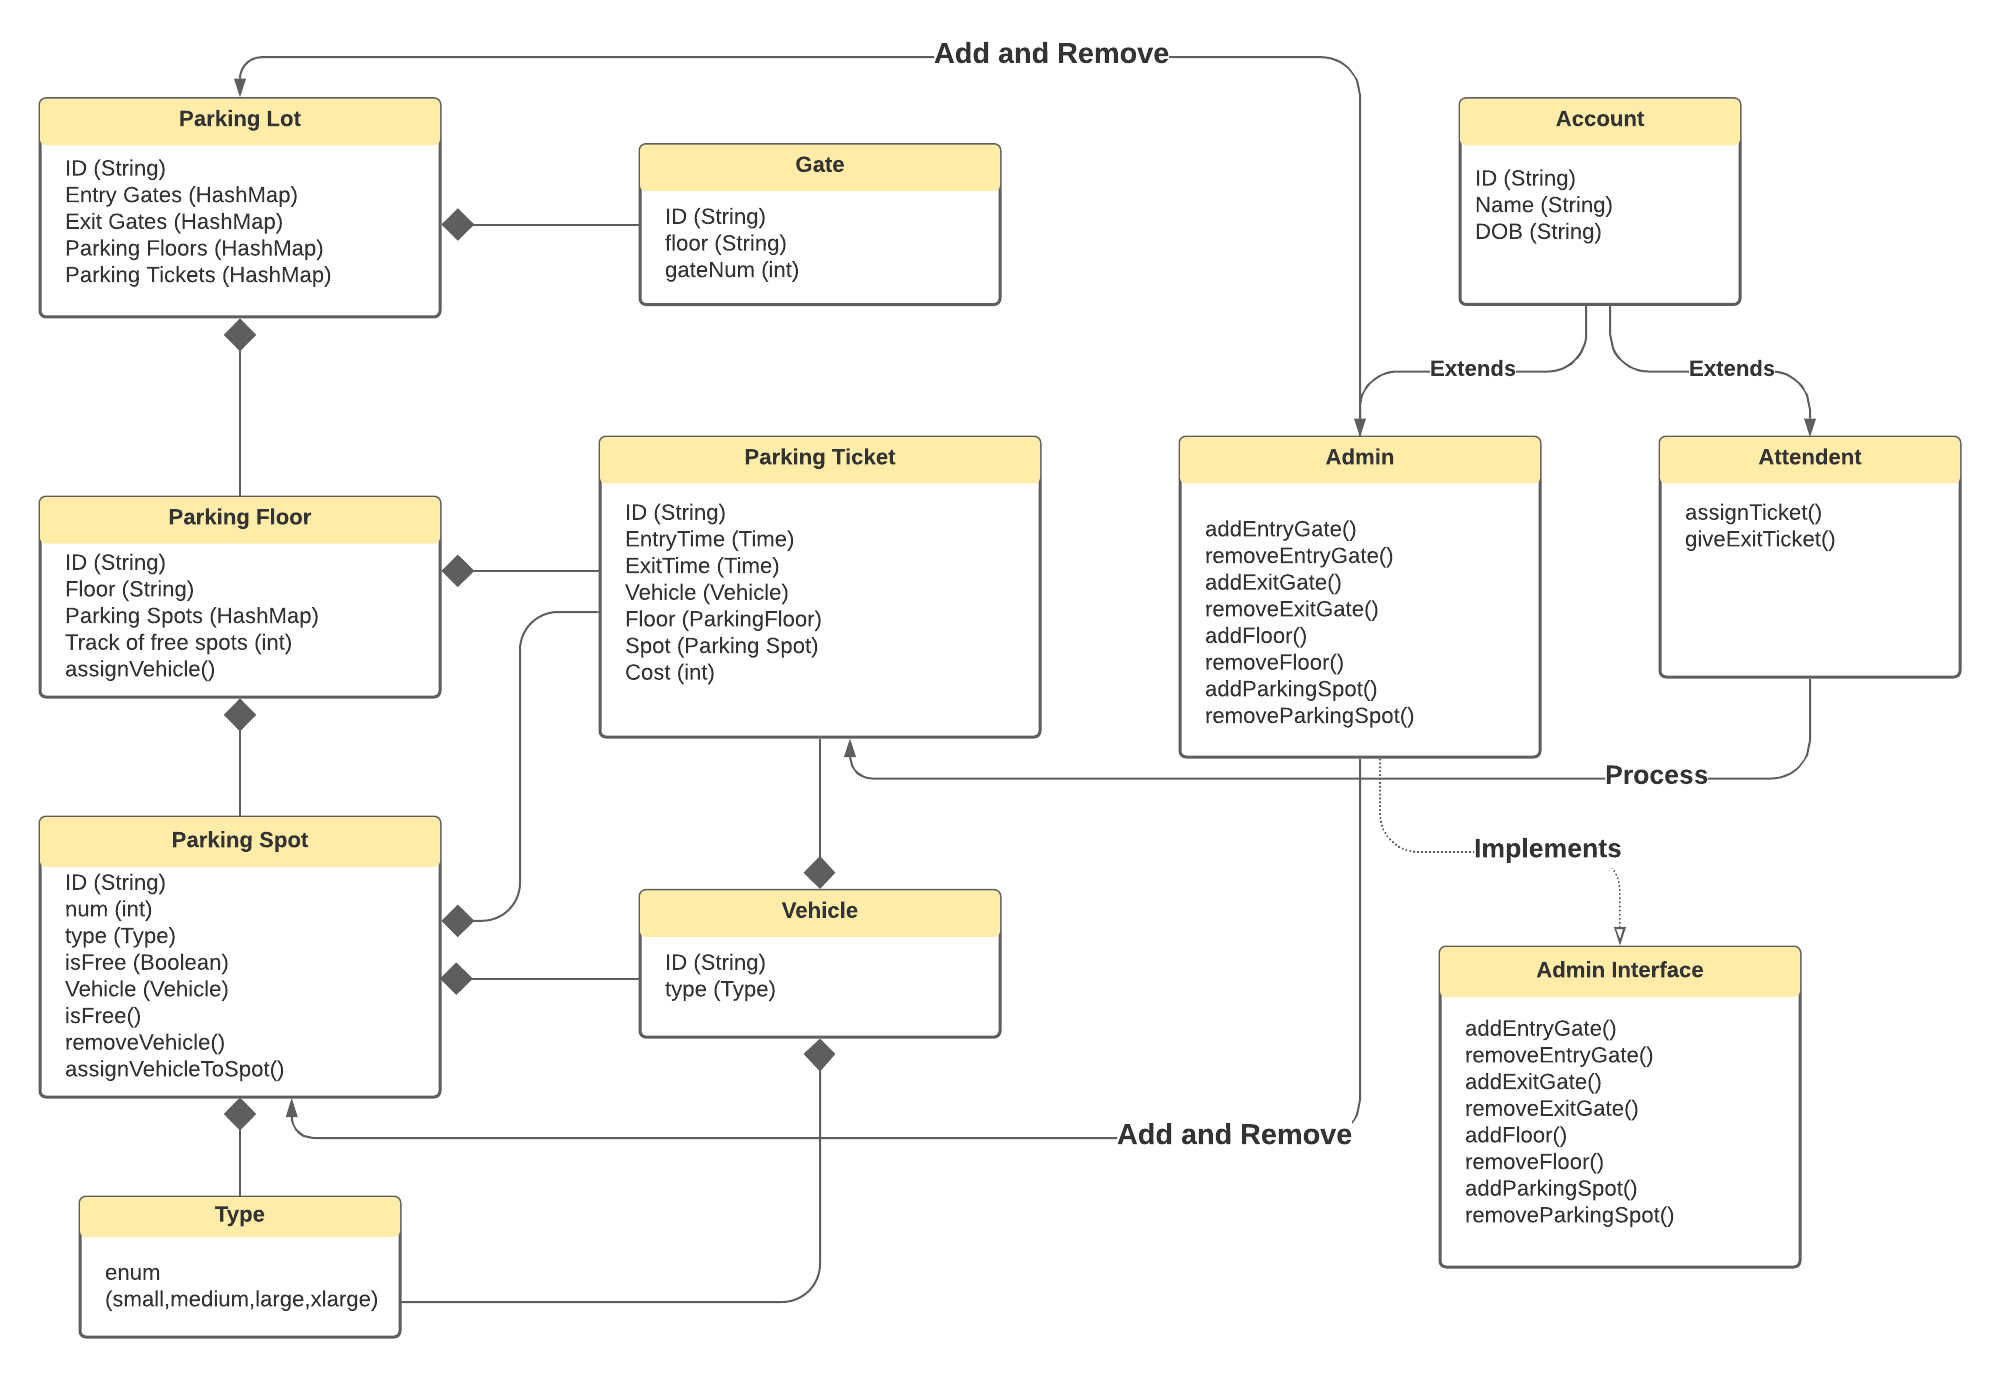
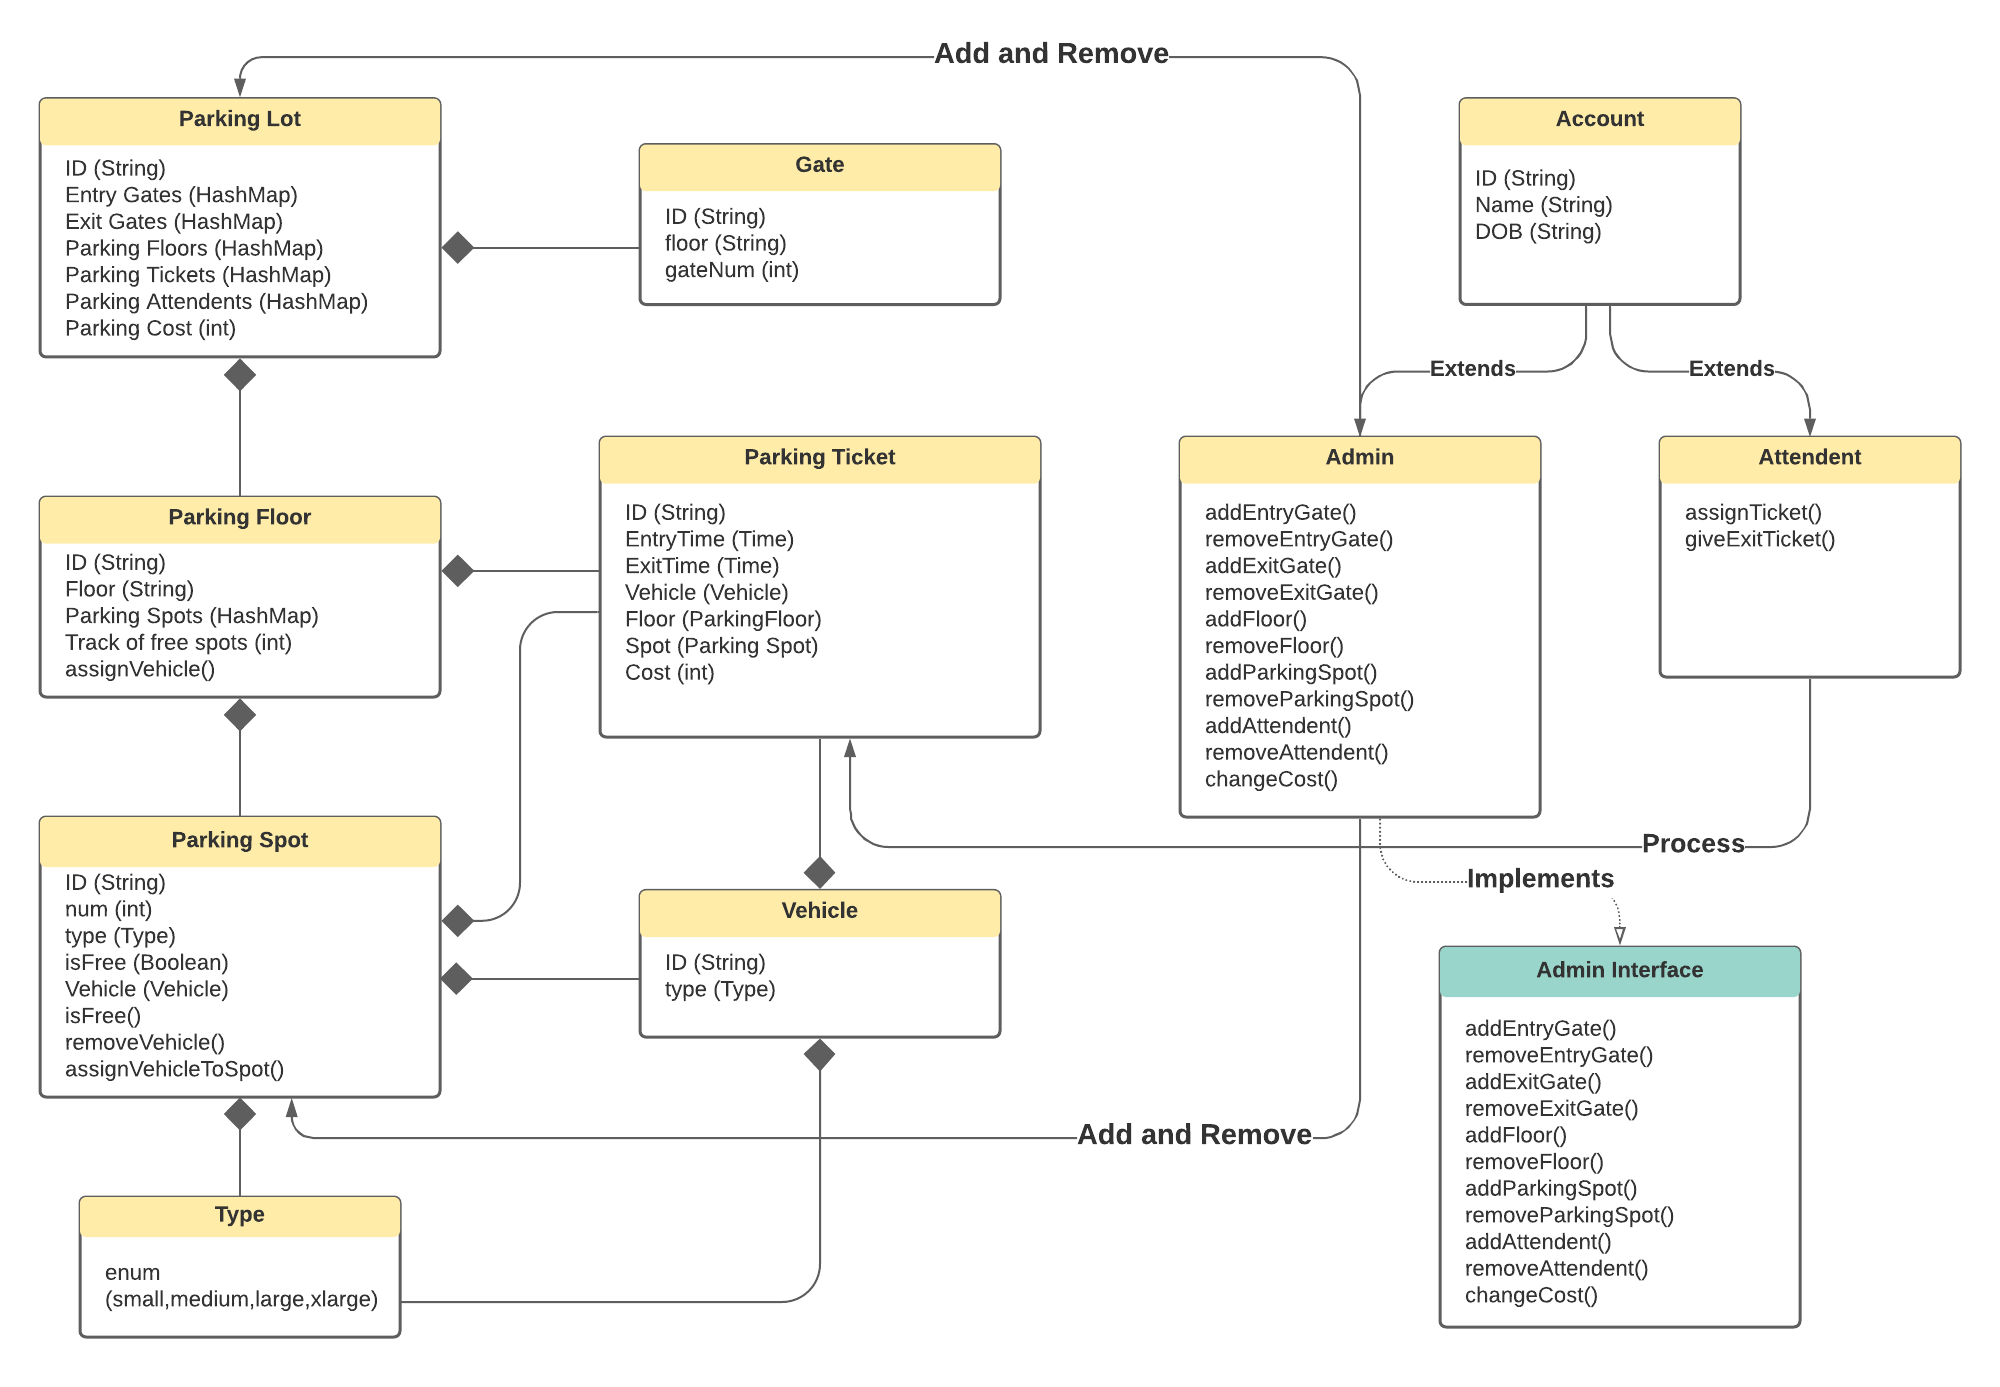
modified

diff --git a/src/Admin.java b/src/Admin.java
@@ -17,6 +17,12 @@ public class Admin extends Account implements IAdmin {
     public void removeExitGate(Gate gate){
         ParkingLot.exitGates.remove(gate.id);
     }
+    public void addAttendent(Attendent attendent){
+        ParkingLot.attendents.put(attendent.id,attendent);
+    }
+    public void removeAttendent(Attendent attendent){
+        ParkingLot.attendents.remove(attendent.id);
+    }
     public void addParkingSpot(ParkingFloor parkingFloor,ParkingSpot parkingSpot){
         parkingFloor.parkingSpots.put(parkingSpot.id,parkingSpot);
         switch(parkingSpot.spotType){
@@ -50,5 +56,9 @@ public class Admin extends Account implements IAdmin {
                 parkingFloor.totalXlarge=parkingFloor.totalXlarge-1;
             }
         }
+    }
+
+    public void changeCost(int cost){
+        ParkingLot.cost=cost;
     }
 }

diff --git a/src/ParkingLot.java b/src/ParkingLot.java
@@ -2,12 +2,18 @@ import java.sql.Timestamp;
 import java.time.LocalDateTime;
 import java.util.HashMap;
 import java.util.Map;
-
+//Note:
+//In this code only one parking lot is considered, so instead of keeping track of everything
+//in database, everything is stored in static variable of parking lot class
+//If we want multiple parking lots then everywhere instead of using parkinglot's static variable we can use
+//a database.
 public class ParkingLot {
     private String zipCode;
     public static HashMap<String,Gate> entryGates;
     public static HashMap<String,Gate> exitGates;
     public static HashMap<String,ParkingFloor> parkingFloors;
     public static HashMap<String,Ticket> tickets;
+    public static HashMap<String,Attendent> attendents;
+    public static int cost;
 
 }

diff --git a/src/Attendent.java b/src/Attendent.java
@@ -60,7 +60,7 @@ public class Attendent extends Account {
         ticket.floor.parkingSpots.put(ticket.floor.parkingSpots.get(ticket.spot).id,ticket.floor.parkingSpots.get(ticket.spot));
         Ticket exitTicket=ticket;
         exitTicket.exittimestamp=new Timestamp(System.currentTimeMillis()).getTime();
-        exitTicket.cost=(int)((exitTicket.exittimestamp-exitTicket.entrytimestamp)/(1000*60));
+        exitTicket.cost=(int)(ParkingLot.cost*(exitTicket.exittimestamp-exitTicket.entrytimestamp)/(1000*60));
         exitTicket.exitTime= LocalDateTime.now();
         ParkingLot.tickets.put(exitTicket.id,exitTicket);
         return exitTicket;

diff --git a/src/IAdmin.java b/src/IAdmin.java
@@ -7,4 +7,6 @@ public interface IAdmin {
     void removeExitGate(Gate gate);
     void addParkingSpot(ParkingFloor parkingFloor,ParkingSpot parkingSpot);
     void removeParkingSpot(ParkingFloor parkingFloor,ParkingSpot parkingSpot);
+    void addAttendent(Attendent attendent);
+    void removeAttendent(Attendent attendent);
 }
